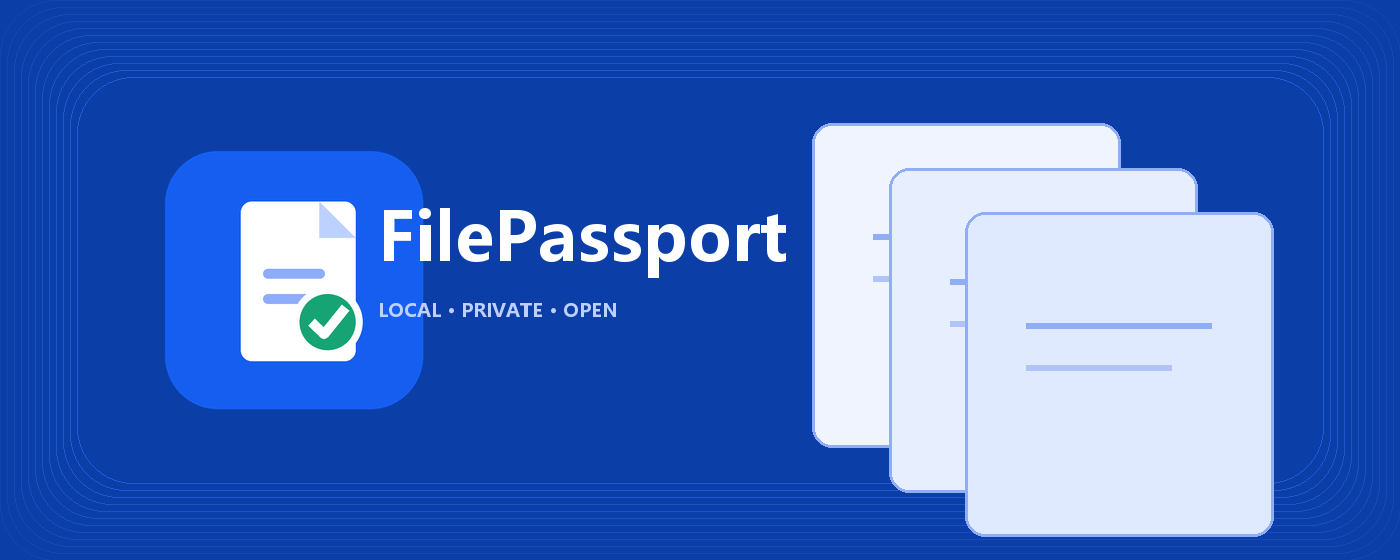
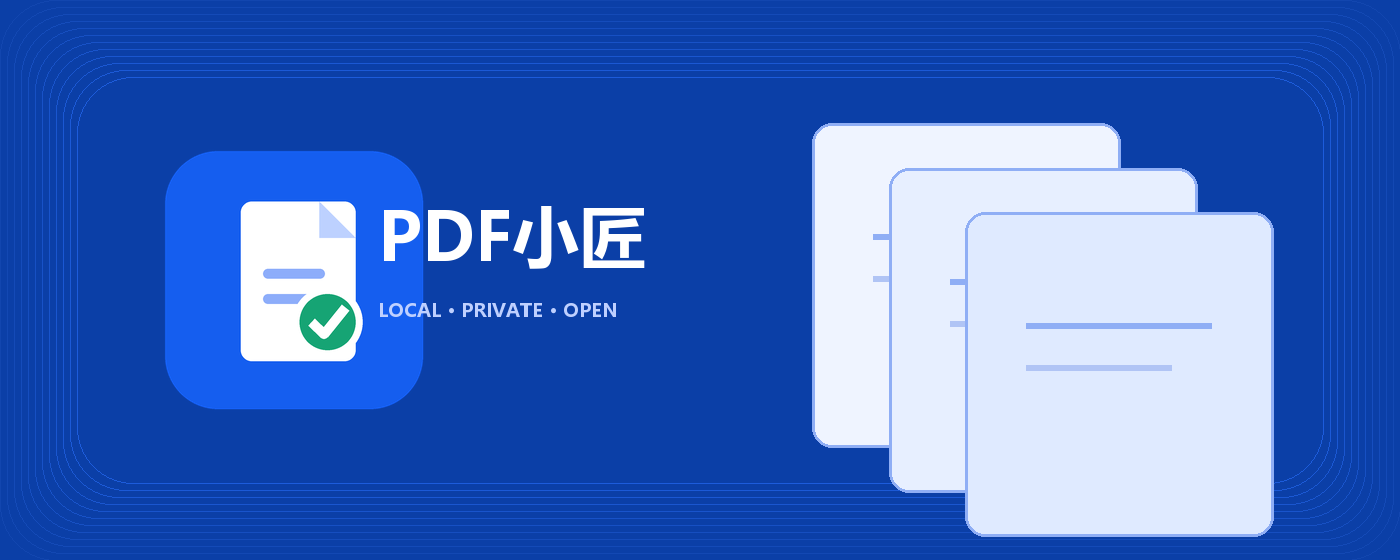
Rename project to PDF小匠

Changed region(s): [[0.2764, 0.3643, 0.5836, 0.4857]]

diff --git a/docs/privacy.html b/docs/privacy.html
@@ -2,18 +2,18 @@
 <html lang="zh-CN">
 <head>
   <meta charset="utf-8"><meta name="viewport" content="width=device-width,initial-scale=1">
-  <title>隐私政策 — FilePassport</title>
+  <title>隐私政策 — PDF小匠</title>
   <style>:root{font-family:Inter,"Microsoft YaHei",system-ui,sans-serif;color:#14223c;background:#f7f9fc}body{margin:0}main{max-width:780px;margin:auto;padding:58px 24px}a{color:#155eef}h1{font-size:38px;letter-spacing:-1.5px}h2{margin-top:34px;font-size:19px}p,li{color:#5f6d84;line-height:1.8;font-size:14px}.date{color:#8b96a8;font-size:12px}.card{margin:28px 0;padding:20px;border:1px solid #cfe3da;border-radius:14px;background:#effaf6;color:#167255}.en{margin-top:55px;padding-top:36px;border-top:1px solid #dfe5ee}footer{margin-top:50px;font-size:12px}</style>
 </head>
 <body><main>
-  <a href="index.html">← FilePassport</a><h1>隐私政策</h1><p class="date">生效日期：2026-09-17</p>
-  <p class="card"><strong>简明结论：</strong>你的文件不会离开你的设备。FilePassport 不收集数据，不申请网站访问权限，也没有服务器、账户、广告或统计 SDK。</p>
+  <a href="index.html">← PDF小匠</a><h1>隐私政策</h1><p class="date">生效日期：2026-09-17</p>
+  <p class="card"><strong>简明结论：</strong>你的文件不会离开你的设备。PDF小匠不收集数据，不申请网站访问权限，也没有服务器、账户、广告或统计 SDK。</p>
   <h2>我们处理什么</h2><p>用户主动选择的 PDF、JPG、PNG 和 DOCX 文件只在 Microsoft Edge 或 Google Chrome 的扩展页面内存中处理，用于生成用户要求的输出文件。</p>
   <h2>我们不做什么</h2><ul><li>不收集、上传、出售、共享或分析文件、文件名及文件内容。</li><li>不收集身份、浏览历史、位置、设备标识或使用数据。</li><li>不创建账户，不使用 Cookie，不展示广告。</li><li>不把文件写入开发者控制的服务器，不加载远程执行代码。</li></ul>
   <h2>保留与删除</h2><p>关闭处理页面后，扩展不保留已选择文件。用户下载的输出文件由浏览器保存到用户选择的位置。浏览器和扩展商店自身的安装、更新及遥测行为受其各自隐私政策约束。</p>
-  <h2>权限和网络</h2><p>FilePassport 1.0 不申请扩展权限或网站访问权限。运行时代码和依赖均包含在扩展包中，断网时仍可使用全部文档处理功能。</p>
+  <h2>权限和网络</h2><p>PDF小匠 1.0 不申请扩展权限或网站访问权限。运行时代码和依赖均包含在扩展包中，断网时仍可使用全部文档处理功能。</p>
   <h2>第三方组件</h2><p>扩展在本地使用 PDF.js、pdf-lib、fflate 和 docx-preview。这些组件随扩展执行，不会因此向组件维护者传输文件。</p>
   <h2>联系与变更</h2><p>隐私问题可通过项目 GitHub 仓库的 Issues 联系维护者。如果数据实践发生变化，本政策和商店披露会在新版本发布前同步更新。</p>
-  <section class="en" lang="en"><h1>Privacy Policy</h1><p class="date">Effective: September 17, 2026</p><p>Files explicitly selected by the user are processed only in the extension page's memory to create the requested output. FilePassport does not collect, upload, sell, share, retain, or analyze files, filenames, document contents, identity data, browsing activity, location, device identifiers, or usage telemetry. It has no accounts, cookies, ads, backend, remotely hosted code, extension permissions, or host permissions. Closing the processing page discards selected inputs from extension memory. Browser and store installation, update, and telemetry behavior is governed by their respective policies.</p></section>
+  <section class="en" lang="en"><h1>Privacy Policy</h1><p class="date">Effective: September 17, 2026</p><p>Files explicitly selected by the user are processed only in the extension page's memory to create the requested output. PDF小匠 does not collect, upload, sell, share, retain, or analyze files, filenames, document contents, identity data, browsing activity, location, device identifiers, or usage telemetry. It has no accounts, cookies, ads, backend, remotely hosted code, extension permissions, or host permissions. Closing the processing page discards selected inputs from extension memory. Browser and store installation, update, and telemetry behavior is governed by their respective policies.</p></section>
   <footer><a href="support.html">支持与帮助</a></footer>
 </main></body></html>

diff --git a/docs/support.html b/docs/support.html
@@ -1,9 +1,9 @@
 <!doctype html>
 <html lang="zh-CN">
-<head><meta charset="utf-8"><meta name="viewport" content="width=device-width,initial-scale=1"><title>支持 — FilePassport</title><style>:root{font-family:Inter,"Microsoft YaHei",system-ui,sans-serif;color:#14223c;background:#f7f9fc}body{margin:0}main{max-width:780px;margin:auto;padding:58px 24px}a{color:#155eef}h1{font-size:38px;letter-spacing:-1.5px}h2{margin-top:34px;font-size:19px}p,li{color:#5f6d84;line-height:1.8;font-size:14px}code{background:#e9eef6;padding:2px 5px;border-radius:4px}</style></head>
-<body><main><a href="index.html">← FilePassport</a><h1>支持与帮助</h1><p>FilePassport 的全部处理都在浏览器本地完成。遇到问题时，请先确认浏览器已更新到最新稳定版。</p>
+<head><meta charset="utf-8"><meta name="viewport" content="width=device-width,initial-scale=1"><title>支持 — PDF小匠</title><style>:root{font-family:Inter,"Microsoft YaHei",system-ui,sans-serif;color:#14223c;background:#f7f9fc}body{margin:0}main{max-width:780px;margin:auto;padding:58px 24px}a{color:#155eef}h1{font-size:38px;letter-spacing:-1.5px}h2{margin-top:34px;font-size:19px}p,li{color:#5f6d84;line-height:1.8;font-size:14px}code{background:#e9eef6;padding:2px 5px;border-radius:4px}</style></head>
+<body><main><a href="index.html">← PDF小匠</a><h1>支持与帮助</h1><p>PDF小匠的全部处理都在浏览器本地完成。遇到问题时，请先确认浏览器已更新到最新稳定版。</p>
   <h2>常见问题</h2><ul><li><strong>加密 PDF：</strong>1.0 版不支持设有打开密码的 PDF。</li><li><strong>压缩未达目标：</strong>文件可能已经高度压缩。可以选择更大的目标，或使用拆分功能分成多个文件。</li><li><strong>DOCX 排版变化：</strong>复杂表格、文本框、浮动图片和特殊字体可能与 Word 不同，请在打印前检查预览。</li><li><strong>大文件处理失败：</strong>关闭其他占用内存的标签页后重试；浏览器本地处理受设备内存限制。</li></ul>
-  <h2>报告问题</h2><p>请在项目 GitHub 仓库创建 Issue，并提供浏览器版本、FilePassport 版本、操作步骤和错误信息。不要上传包含个人或机密信息的真实文件；请使用可公开的最小复现文件。</p>
+  <h2>报告问题</h2><p>请在项目 GitHub 仓库创建 Issue，并提供浏览器版本、PDF小匠版本、操作步骤和错误信息。不要上传包含个人或机密信息的真实文件；请使用可公开的最小复现文件。</p>
   <h2>安全问题</h2><p>安全漏洞请使用 GitHub Security Advisories 私下报告，不要发布公开 Issue。</p>
   <p lang="en"><strong>English support:</strong> Open an issue in the project's GitHub repository with the browser version, extension version, reproduction steps, and error text. Never attach a sensitive real-world document.</p>
 </main></body></html>

diff --git a/docs/index.html b/docs/index.html
@@ -2,17 +2,17 @@
 <html lang="zh-CN">
 <head>
   <meta charset="utf-8"><meta name="viewport" content="width=device-width,initial-scale=1">
-  <meta name="description" content="FilePassport — 不上传文件的本地 PDF 工具">
-  <title>FilePassport — 本地 PDF 工具</title>
+  <meta name="description" content="PDF小匠 — 不上传文件的本地 PDF 工具">
+  <title>PDF小匠 — 本地 PDF 工具</title>
   <style>
     :root{font-family:Inter,"Microsoft YaHei",system-ui,sans-serif;color:#10203d;background:#f6f8fc}*{box-sizing:border-box}body{margin:0}main{max-width:920px;margin:auto;padding:80px 28px}header{display:flex;align-items:center;gap:14px;margin-bottom:80px}.logo{display:grid;place-items:center;width:48px;height:48px;border-radius:14px;background:#155eef;color:white;font-weight:800;box-shadow:0 10px 24px #155eef35}header b{font-size:20px}header span{display:block;color:#71809a;font-size:11px;letter-spacing:1px}h1{max-width:760px;margin:0;font-size:clamp(45px,8vw,78px);line-height:1.04;letter-spacing:-4px}h1 em{color:#155eef;font-style:normal}p{max-width:620px;color:#63708a;line-height:1.8}.actions{display:flex;gap:10px;margin:30px 0 72px}.actions a{padding:11px 16px;border:1px solid #d6deea;border-radius:10px;color:#29405f;background:white;text-decoration:none;font-size:13px}.actions a:first-child{color:white;background:#155eef;border-color:#155eef}.proof{display:grid;grid-template-columns:repeat(3,1fr);gap:12px}.proof div{padding:24px;border:1px solid #dfe5ef;border-radius:15px;background:white}.proof b{display:block;color:#155eef;font-size:24px}.proof span{color:#71809a;font-size:12px}footer{margin-top:70px;padding-top:22px;border-top:1px solid #dfe5ee;color:#8490a3;font-size:11px}@media(max-width:600px){main{padding-top:35px}header{margin-bottom:50px}h1{letter-spacing:-2.5px}.proof{grid-template-columns:1fr}.actions{flex-direction:column}}
   </style>
 </head>
 <body><main>
-  <header><div class="logo">FP</div><div><b>FilePassport</b><span>LOCAL DOCUMENT TOOLS</span></div></header>
+  <header><div class="logo">匠</div><div><b>PDF小匠</b><span>LOCAL PDF TOOLS</span></div></header>
   <h1>文件不过云，<br><em>处理完就走。</em></h1>
   <p>面向 Microsoft Edge 和 Google Chrome 的本地 PDF 工具。合并、拆分、目标压缩、图片与 DOCX 转 PDF、PDF 转图片。无需登录，没有广告。</p>
   <div class="actions"><a href="privacy.html">隐私政策</a><a href="support.html">支持与帮助</a></div>
   <section class="proof"><div><b>0</b><span>扩展与网站权限</span></div><div><b>100%</b><span>设备本地处理</span></div><div><b>5</b><span>常用工具入口</span></div></section>
-  <footer>FilePassport is open-source software licensed under MIT.</footer>
+  <footer>PDF小匠 is open-source software licensed under MIT.</footer>
 </main></body></html>

diff --git a/src/main.ts b/src/main.ts
@@ -67,7 +67,7 @@ function shell(content: string) {
     <header class="topbar">
       <button class="brand" data-home aria-label="返回首页">
         <img src="./icons/icon-48.png" alt="" width="38" height="38">
-        <span><b>FilePassport</b><small>LOCAL DOCUMENT TOOLS</small></span>
+        <span><b>PDF小匠</b><small>LOCAL PDF TOOLS</small></span>
       </button>
       <nav class="topnav" aria-label="主要工具">
         ${TOOLS.map((tool) => `<button class="${currentTool === tool.id ? 'active' : ''}" data-tool="${tool.id}">${tool.title.replace('到目标大小', '')}</button>`).join('')}
@@ -76,7 +76,7 @@ function shell(content: string) {
     </header>
     <main>${content}</main>
     <footer class="site-footer">
-      <span>FilePassport 1.0</span><span>零账号 · 零上传 · 零广告</span><span>MIT 开源</span>
+      <span>PDF小匠 1.0</span><span>零账号 · 零上传 · 零广告</span><span>MIT 开源</span>
     </footer>`;
 }
 
@@ -309,7 +309,7 @@ async function handleAction(action: string) {
   try {
     if (action === 'merge') {
       await runBusy('正在合并页面', async () => {
-        const output = await buildPdfFromPages(files, pageRefs, 'filepassport-merged.pdf');
+        const output = await buildPdfFromPages(files, pageRefs, 'pdf-xiaojiang-merged.pdf');
         downloadOutput(output); showSuccess(`已生成 ${formatBytes(output.bytes.length)} 的合并文件`);
       });
     }

diff --git a/popup.html b/popup.html
@@ -4,13 +4,13 @@
     <meta charset="UTF-8" />
     <meta name="viewport" content="width=device-width, initial-scale=1.0" />
     <link rel="icon" href="./icons/icon-32.png" />
-    <title>FilePassport</title>
+    <title>PDF小匠</title>
   </head>
   <body>
     <main class="popup-shell">
       <header>
         <img src="/icons/icon-48.png" alt="" width="34" height="34" />
-        <div><strong>FilePassport</strong><span>文件不过云，处理完就走</span></div>
+        <div><strong>PDF小匠</strong><span>文件不过云，处理完就走</span></div>
       </header>
       <nav aria-label="PDF 工具">
         <button data-tool="merge"><b>合</b><span>合并 PDF</span></button>

diff --git a/app.html b/app.html
@@ -6,7 +6,7 @@
     <meta name="color-scheme" content="light" />
     <meta name="theme-color" content="#155eef" />
     <link rel="icon" href="./icons/icon-32.png" />
-    <title>FilePassport — 本地 PDF 工具</title>
+    <title>PDF小匠 — 本地 PDF 工具</title>
   </head>
   <body>
     <div id="app"></div>

diff --git a/scripts/generate_brand_assets.py b/scripts/generate_brand_assets.py
@@ -47,6 +47,8 @@ def draw_logo(size: int, padding_ratio: float = 0.125):
 for size in (16, 32, 48, 128):
     draw_logo(size).save(ICON_DIR / f"icon-{size}.png")
 
+draw_logo(300).save(STORE_DIR / "logo-300x300.png")
+
 
 def promo(width: int, height: int, path: Path, include_text: bool):
     image = Image.new("RGB", (width, height), BLUE_DARK)
@@ -66,7 +68,7 @@ def promo(width: int, height: int, path: Path, include_text: bool):
         draw.line((x+w*.2, y+h*.35, x+w*.8, y+h*.35), fill="#8FAEF5", width=max(2, width//220))
         draw.line((x+w*.2, y+h*.48, x+w*.67, y+h*.48), fill="#B0C4F5", width=max(2, width//220))
     if include_text:
-        draw.text((int(width*.27), int(height*.34)), "FilePassport", font=font(int(height*.12), True), fill="white")
+        draw.text((int(width*.27), int(height*.34)), "PDF小匠", font=font(int(height*.12), True), fill="white")
         draw.text((int(width*.27), int(height*.53)), "LOCAL · PRIVATE · OPEN", font=font(int(height*.035), True), fill="#BFD0FF")
     image.save(path, quality=95)
 

diff --git a/README.md b/README.md
@@ -1,10 +1,10 @@
-# FilePassport
+# PDF小匠
 
 > 文件不过云，处理完就走。
 
-FilePassport 是一个面向 Microsoft Edge 和 Google Chrome 的本地 PDF 扩展。无需登录，没有广告，文件不会上传到服务器。
+PDF小匠是一个面向 Microsoft Edge 和 Google Chrome 的本地 PDF 扩展。无需登录，没有广告，文件不会上传到服务器。
 
-![FilePassport 首页](store-assets/screenshot-home-1280x800.png)
+![PDF小匠首页](store-assets/screenshot-home-1280x800.png)
 
 ## 功能
 
@@ -88,4 +88,4 @@ git push origin v1.0.0
 
 ---
 
-**English:** FilePassport is a zero-permission, offline Chromium extension for merging, splitting, target-size compressing, creating, and exporting PDFs. The project ships no backend, analytics, ads, accounts, or remotely hosted code.
+**English:** PDF小匠 is a zero-permission, offline Chromium extension for merging, splitting, target-size compressing, creating, and exporting PDFs. The project ships no backend, analytics, ads, accounts, or remotely hosted code.

diff --git a/SECURITY.md b/SECURITY.md
@@ -17,4 +17,4 @@ Please report a vulnerability privately through GitHub Security Advisories inste
 - The manifest requests no extension or host permissions.
 - Dependencies are bundled locally and checked with `npm audit` before release.
 
-PDF and DOCX parsers are complex. A malformed file may still exhaust browser memory or trigger a bug in an upstream parser. Keep the browser and FilePassport updated.
+PDF and DOCX parsers are complex. A malformed file may still exhaust browser memory or trigger a bug in an upstream parser. Keep the browser and PDF小匠 updated.

diff --git a/CONTRIBUTING.md b/CONTRIBUTING.md
@@ -8,4 +8,4 @@ Small, reproducible changes are welcome.
 4. Run `npm run e2e`, `npm audit`, and `npm run package` before opening a pull request.
 5. Add one focused test when changing parsing, page selection, output generation, or security behavior.
 
-Please do not submit unrelated utility features. FilePassport has one purpose: private local creation and processing of PDFs.
+Please do not submit unrelated utility features. PDF小匠 has one purpose: private local creation and processing of PDFs.
